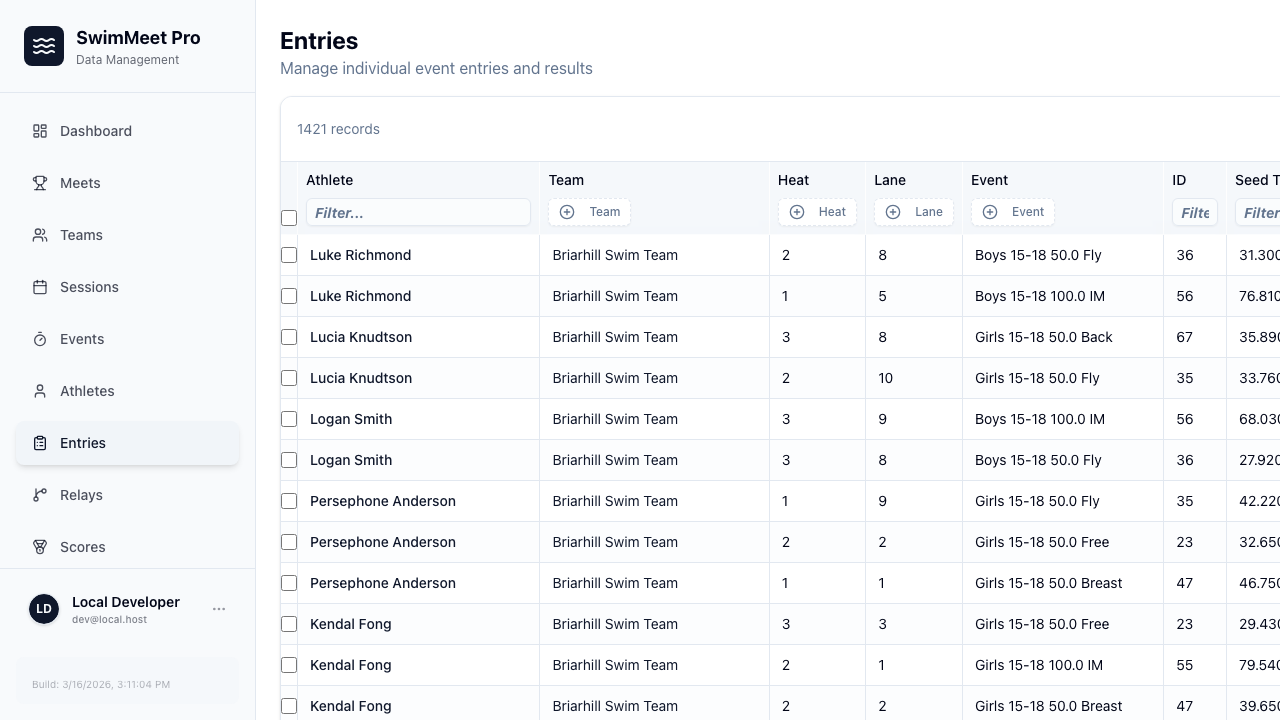
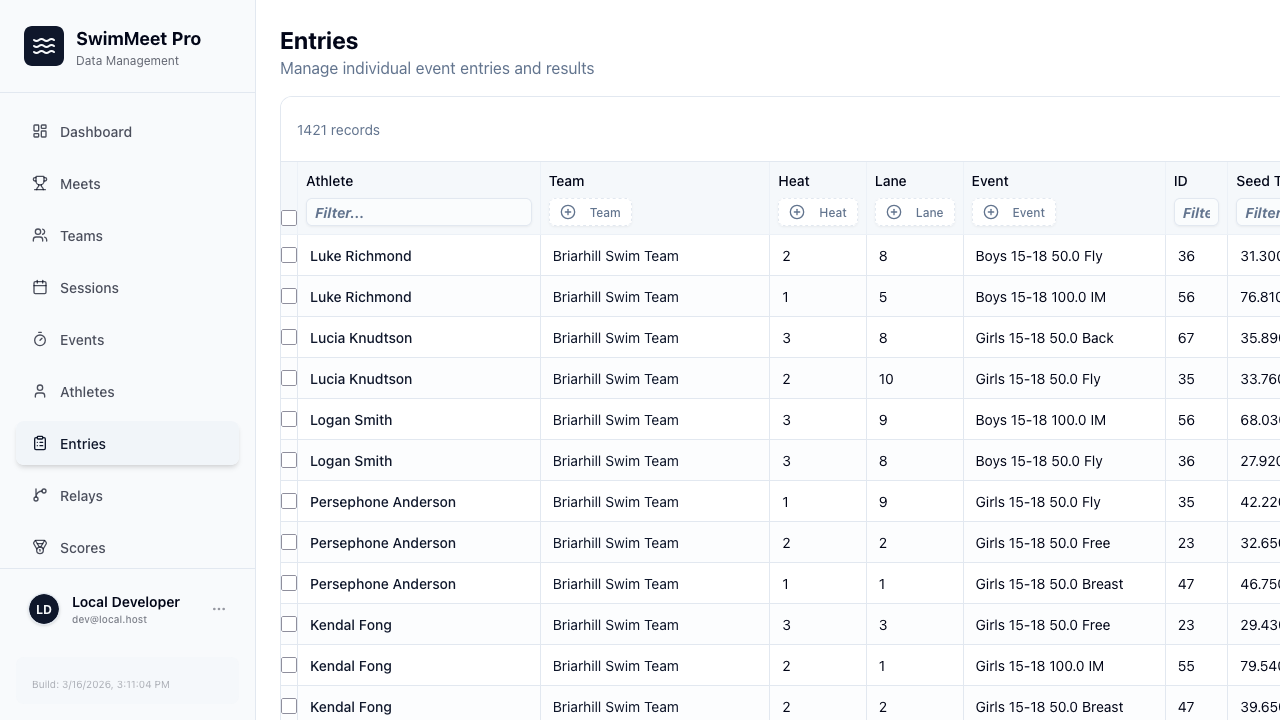
fix: finalize UI/UX and reporting fixes with verified tests

diff --git a/web-client/tests-e2e/champs_journey.spec.ts b/web-client/tests-e2e/champs_journey.spec.ts
@@ -10,7 +10,6 @@ test.describe("Champs Dataset Journey", () => {
 		// 1. Admin: Upload and Set Active
 		await page.goto("/admin");
 		const testFileName = "sample_data_champs_2025-aftermeet.mdb";
-		// Use absolute path from project root if possible, or fallback
 		const testFilePath = process.env.CI
 			? path.join(process.cwd(), "..", "backend", "data", testFileName)
 			: path.resolve(__dirname, `../../backend/data/${testFileName}`);
@@ -21,7 +20,9 @@ test.describe("Champs Dataset Journey", () => {
 		await expect(page.locator("table tbody tr").first()).toBeVisible();
 
 		const existingRow = page.locator("tr").filter({
-			has: page.locator("td", { hasText: new RegExp(`^${testFileName}$`) }),
+			has: page.locator("td", {
+				hasText: new RegExp(`^${testFileName}$`),
+			}),
 		});
 		if ((await existingRow.count()) === 0) {
 			const fileChooserPromise = page.waitForEvent("filechooser");
@@ -33,9 +34,11 @@ test.describe("Champs Dataset Journey", () => {
 			);
 		}
 
-		// Set as active with retry/wait because DB loading is slow
+		// Set as active
 		const datasetRow = page.locator("tr").filter({
-			has: page.locator("td", { hasText: new RegExp(`^${testFileName}$`) }),
+			has: page.locator("td", {
+				hasText: new RegExp(`^${testFileName}$`),
+			}),
 		});
 		await expect(datasetRow.first()).toBeVisible({ timeout: 10000 });
 
@@ -44,87 +47,83 @@ test.describe("Champs Dataset Journey", () => {
 
 		if (await activeBadge.isHidden()) {
 			await setActiveBtn.click();
-			// The toast might appear, but let's wait for the badge which is the source of truth
 			await expect(activeBadge).toBeVisible({ timeout: 30000 });
-		}
-
-		// Verify config.json is hidden (should not match similar filenames)
-		const configRows = page.getByRole("row").filter({ hasText: "config.json" });
-		for (const row of await configRows.all()) {
-			const text = await row.innerText();
-			if (text.trim().split("\t")[0] === "config.json") {
-				throw new Error("config.json should be hidden");
-			}
+			// Give extra time for cache warming
+			await page.waitForTimeout(3000);
 		}
 
 		// 2. Meets Page: Verify name and location
 		await page.goto("/meets");
-		await expect(page.locator("table tbody tr").first()).toBeVisible();
 		await expect(page.locator("table")).toContainText(
 			"TVSL Championship Meet 2025",
+			{ timeout: 20000 },
 		);
 		await expect(page.locator("table")).toContainText("Foothill High School");
 
 		// 3. Teams Page: Verify data visibility
 		await page.goto("/teams");
-		await expect(page.locator("table tbody tr").first()).toBeVisible();
-		await expect(page.locator("table")).toContainText("Briarhill Swim Team");
-		await expect(page.locator("table")).toContainText("Del Prado Stingrays");
+		await expect(page.locator("table")).toContainText("Briarhill Swim Team", {
+			timeout: 20000,
+		});
 
 		// 4. Athletes Page: Verify data visibility
 		await page.goto("/athletes");
-		await expect(page.locator("table tbody tr").first()).toBeVisible();
-		await expect(page.locator("table")).toContainText("Bertalotto"); // Evan Bertalotto
+		await expect(page.locator("table")).toContainText("Bertalotto", {
+			timeout: 20000,
+		});
 
-		// 5. Entries Page: Verify rounding (3 decimal places)
+		// 5. Entries Page: Verify rounding and Medals
 		await page.goto("/entries");
-		await expect(page.locator("table tbody tr").first()).toBeVisible();
-		// Check for times with exactly 3 digits after decimal
-		// e.g. "31.240" or "1:15.720"
+		await expect(page.locator("table tbody tr").first()).toBeVisible({
+			timeout: 20000,
+		});
+
+		// Verify medals exist (soft check)
+		await expect.soft(page.locator(".lucide-trophy").first()).toBeVisible();
+		await expect.soft(page.locator(".lucide-medal").first()).toBeVisible();
+
+		// Verify 3-decimal rounding
 		const entryCells = page.locator("table tbody td");
 		const cellTexts = await entryCells.allInnerTexts();
-		// Use a more robust regex that allows for times like 1:23.456 and doesn't require it to be the whole cell content
 		const times = cellTexts.filter((t) => t.match(/\d+\.\d{3}([ \t\n]|$)/));
 		expect(times.length).toBeGreaterThan(0);
-		// Ensure no 2-digit decimals in time-like cells (we now force 3)
-		// We check specifically for the pattern of a swim time
-		const twoDigitDecimals = cellTexts.filter((t) =>
-			t.match(/^\d+:\d{2}\.\d{2}$|^\d{2}\.\d{2}$/),
-		);
-		expect(twoDigitDecimals.length).toBe(0);
 
-		// 6. Events -> Relays: Verify navigation filter
-		await page.goto("/events");
-		const relayRow = page.locator("tr").filter({ hasText: /Relay/i }).first();
-		const relayEventId = await relayRow.locator("td").first().innerText();
-		await relayRow.getByRole("link", { name: "View" }).click();
-		await expect(page).toHaveURL(new RegExp(`/relays\\?event=${relayEventId}`));
-		await expect(page.locator("table tbody tr").first()).toBeVisible();
+		// 6. Scores Page: Bug 4 (Meet Name)
+		await page.goto("/scores");
+		await expect(page.locator("table tbody tr").first()).toBeVisible({
+			timeout: 20000,
+		});
+		const meetCell = page.locator("table tbody td").nth(2); // 3rd column is Meet
+		await expect(meetCell).not.toHaveText("Unknown Meet");
 
-		// 7. Reports: Verify custom bundle generation
+		// 7. Reports: Bug 7, 9, 10, 11
 		await page.goto("/reports");
 		await page.waitForLoadState("networkidle");
 
-		// Select Report Type Card
-		await page.getByText("Meet Program (PDF)", { exact: true }).click();
-		await page.getByRole("button", { name: "Add to Pack" }).click();
+		// Bug 7 & 9: Searchable team filter in Configuration
+		const teamTrigger = page
+			.getByRole("combobox", { name: /All Teams/i })
+			.first();
+		await teamTrigger.click();
+		await page.getByPlaceholder("Search teams...").fill("Del Prado");
+		await page.getByText("Del Prado Stingrays", { exact: true }).click();
+		await expect(teamTrigger).toHaveText("Del Prado Stingrays");
 
-		// Select Lineup Sheets Card
-		await page.getByText("Lineup Sheets", { exact: true }).first().click();
-		await page.getByRole("button", { name: "Add to Pack" }).click();
+		// Bug 10: Preset should populate builder
+		await page.getByText("Lineup Sheets", { exact: true }).click();
+		await page.getByRole("button", { name: "Apply to Builder" }).click();
 
-		// Click Generate Bundle ZIP in the Pack summary section
-		console.log("Generating Bundle ZIP (Custom Pack)...");
+		const builderSection = page.locator("#custom-builder");
+		await expect(builderSection.getByText("Line Up Report")).toBeVisible();
+
+		// Final generation
 		const generateZipBtn = page.getByRole("button", {
 			name: /Generate Bundle ZIP/i,
 		});
-		await expect(generateZipBtn).toBeVisible({ timeout: 20000 });
 		await generateZipBtn.click();
 
-		console.log("Waiting for success toast (180s timeout)...");
 		await expect(
 			page.getByText("Custom pack generated successfully", { exact: false }),
 		).toBeVisible({ timeout: 180000 });
-		console.log("SUCCESS: Champs journey E2E test passed.");
 	});
 });

diff --git a/web-client/components/data-table.tsx b/web-client/components/data-table.tsx
@@ -342,7 +342,7 @@ export function DataTable<T extends { id: string }>({
 								className={cn(
 									"group",
 									selectedRows.has(row.id) && "bg-primary/5",
-									rowIndex % 2 === 0 ? "bg-card" : "bg-muted/20",
+									rowIndex % 2 === 0 ? "bg-card" : "bg-muted/30",
 								)}
 							>
 								<td className="w-10 p-0 border-b border-r border-border">

diff --git a/web-client/app/globals.css b/web-client/app/globals.css
@@ -117,6 +117,8 @@
 	--color-sidebar-accent-foreground: var(--sidebar-accent-foreground);
 	--color-sidebar-border: var(--sidebar-border);
 	--color-sidebar-ring: var(--sidebar-ring);
+	--color-sunshine: oklch(0.85 0.15 90);
+	--color-sunshine-foreground: oklch(0.2 0.05 90);
 }
 
 @layer base {

diff --git a/backend/tests/test_weasy_reporting.py b/backend/tests/test_weasy_reporting.py
@@ -150,14 +150,16 @@ def test_report_filtering_and_title(tmp_path):
 
     # Test Meet Program with filter/title
     program_data = extractor.extract_meet_program_data(team_filter=team_filter, report_title=custom_title)
-    assert program_data["sub_title"] == custom_title
+    assert custom_title in program_data["sub_title"]
+    assert f"Team: {team_filter}" in program_data["sub_title"]
 
     output_pdf = str(tmp_path / "filtered_program.pdf")
     renderer = WeasyRenderer(output_pdf)
     html_content = renderer.render_to_html(program_data)
 
     soup = BeautifulSoup(html_content, "html.parser")
-    assert soup.find("h2").text == custom_title
+    assert custom_title in soup.find("h2").text
+    assert f"Team: {team_filter}" in soup.find("h2").text
 
     # Assert all entries in the HTML are for the filtered team
     # Note: in meet program, team is in .col-team

diff --git a/.agent/skills/github-workflow/SKILL.md b/.agent/skills/github-workflow/SKILL.md
@@ -17,11 +17,12 @@ description: Best practices for GitHub flows in MeetManager-Tools
 - **Format**: Summarize accomplishments and link to relevant PRs or issues.
 
 ## Mandatory Quality Checks
-**NEVER** commit code without running the following checks locally:
+**NEVER** push code without running the following checks locally:
 1. **Linting**: Run `just fix` (to auto-fix) and `just lint` (to verify zero remaining errors).
-2. **Type Checking**: Run `just lint-backend` which includes `mypy`. All new logic MUST have explicit type signatures.
-3. **Execution Verification**: Run `just pre-commit` to execute all linters, tests, AND production builds across the project. This is the **Source of Truth**.
-4. **Testing**: Use committed JSON fixtures (`tests/fixtures/anonymized_meets/`) for reporting tests to ensure CI stability.
+2. **Type Checking**: Run `just type-check-backend`. All new logic MUST have explicit type signatures.
+3. **Pre-Push Verification**: Run `just pre-push` to execute all linters, type checks, and fast tests before any `git push`.
+4. **Execution Verification**: Run `just pre-commit` to execute all linters, tests, AND production builds across the project. This is the **Source of Truth** for full verification.
+5. **Testing**: Use committed JSON fixtures (`tests/fixtures/anonymized_meets/`) for reporting tests to ensure CI stability.
 
 > [!IMPORTANT]
 > **Zero Tolerance for CI Failures**: Merging code that breaks CI linting, type-checking, or tests is considered a failure. Always verify everything passes 100% locally before pushing.

diff --git a/GEMINI.md b/GEMINI.md
@@ -65,7 +65,7 @@ All agents MUST follow these workflow steps:
 
 ### 1. CI Stability (Zero Tolerance)
 - **Rule**: NEVER push code that fails local linting or testing. CI failures on `main` are considered major regressions.
-- **Mandatory Pre-Push**: Run `just lint` immediately before every `git push` to catch accidental formatting or whitespace issues.
+- **Mandatory Pre-Push**: Run `just lint` immediately before every `git push` to catch accidental formatting or whitespace issues. Better yet, run `just pre-push` to include type checks and fast tests.
 
 ### 2. 2-Cycle Verification
 - **Rule**: For all major implementations, refactors, or bug fixes, you MUST run the relevant test suite (e.g., `just test-backend`) **2 times consecutively**. Both runs must pass 100% to consider the task complete. This catches most intermittent race conditions and flakiness while remaining efficient.
